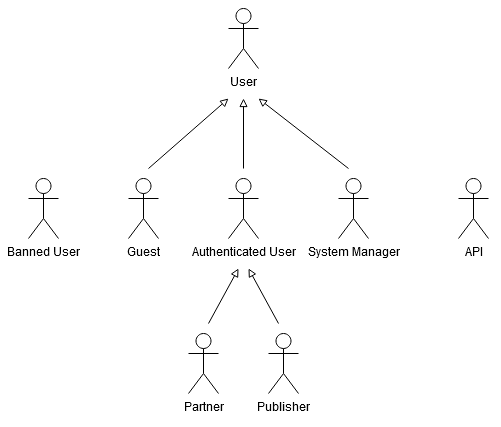
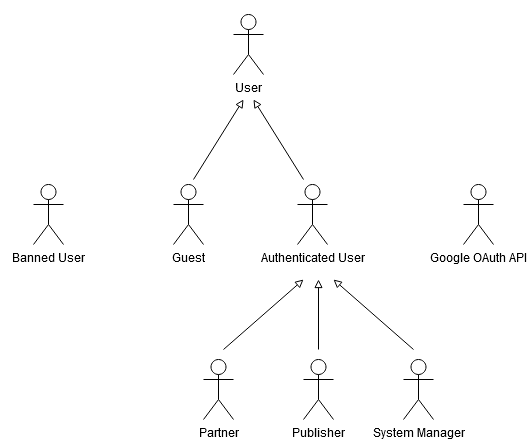
Actores figure updated; User stories orderer by priority; added a few user stories and business rules

diff --git a/docs/A2.md b/docs/A2.md
@@ -17,7 +17,7 @@ Figure 1: Actors
 |Moderator|Authenticated user that is responsible for the management of users and for some specific supervisory and moderation functions, such as remove third-party articles or comments and ban users|n/a
 |Partner|Authenticated User with higher reputation|
 |Banned User|User that is no longer a generic user (can no longer authenticate with his email)|n/a
-|OAuth API|External OAuth API that can be used to register or authenticate into the system|Google
+|Google OAuth API|External OAuth API that can be used to register or authenticate into the system|Google
 
 Table 1: Actor's Description
 
@@ -32,9 +32,10 @@ For the Collaborative News system, consider the user stories that are presented 
 |US02| Search | High | As an *User*, I want to consult all public information, so that I can select the topic of the news I read
 |US03| Sign-out | High | As an *User*, I want to sign-out from my account, so that I no longer have user privilegies
 |US04| Search | High | As an *User*, I want to search for public News, so that I can stay informed
-|US05| Consult FAQ | Low | As an *USer*, I want to see some FAQ, so that I can get fast answers to my questions
-|US06| Consult Contact | Low | As an *User*, I want to consult contacts, so that I can see a contact I might need
-|US07| See About | Low | As an *User*, I want to access the about page, so that I can see the website's description
+|US05| Create Report | Medium | As an *User*, I want to report a(n) user/news/comment, so that the moderators can manage users/news/comments that go against the community guidelines
+|US06| Consult FAQ | Low | As an *USer*, I want to see some FAQ, so that I can get fast answers to my questions
+|US07| Consult Contact | Low | As an *User*, I want to consult contacts, so that I can see a contact I might need
+|US08| See About | Low | As an *User*, I want to access the about page, so that I can see the website's description
 
 Table 2: User's User Stories
  
@@ -43,8 +44,8 @@ Table 2: User's User Stories
 |-------|------|------|------|
 |US11|Sign-in | High | As a *Guest*, I want to authenticate into the system, so that I can access privileged information|
 |US12|Register | High | As a *Guest*, I want to register into the system, so that I can authenticate myself into the system|
-|US13|Sign-in using external API | Low | As a *Guest*, I want to sign-in through my Google account, so that I can authenticate myself into the system|
-|US14|Register using external API | Low | As a *Guest*, I want to register a new account linked to my Google account, so that I can access privileged information|
+|US13|Sign-in using Google OAuth API | Low | As a *Guest*, I want to sign-in through my Google account, so that I can authenticate myself into the system|
+|US14|Register using Google OAuth API | Low | As a *Guest*, I want to register a new account linked to my Google account, so that I can access privileged information|
 
 Table 3: Guest's User Stories
 
@@ -65,8 +66,8 @@ Table 4: Authenticated User's User Stories
 |-------|------|------|------|
 |US31|Edit post|High| As a *Publisher*, I want to edit a post I previously posted, so that I can keep the information updated|
 |US32|Remove post|High| As a *Publisher*, I want to remove a post I previously posted, so that it is no longer publicly available|
-|US33|Edit comment|Medium| As a *Publisher*, I want to edit a comment I previously posted, so that I can keep the comment updated|
-|US34|Remove comment|High| As a *Publisher*, I want to remove a comment I previously posted, so that it is no longer publicly available|
+|US33|Remove comment|High| As a *Publisher*, I want to remove a comment I previously posted, so that it is no longer publicly available|
+|US34|Edit comment|Medium| As a *Publisher*, I want to edit a comment I previously posted, so that I can keep the comment updated|
 
 Table 5: Owner's User Stories
 
@@ -74,11 +75,12 @@ Table 5: Owner's User Stories
 |Identifier|Name|Priority|Description|
 |-------|------|------|------|
 |US41|Remove Post from other User|High|As a *Moderator*, I want to remove a post from another user, so that I can improve the reliability of the news published in the website
-|US42|Ban User|Medium|As a *Moderator*, I want to be able to ban a user from the website, so the user won't be able to post again
-|US43|Verify Partner|Medium|As a *Moderator*, I want to be able to verify a user, so that the user reaches a bigger audience by becoming a Partner
-|US43|Remove Partner|Low|As a *Moderator*, I want to be able to remove a partner, so that the partner no longer reaches a bigger audience with his posts
-|US44|Remove Comment from another User|High|As a *Moderator*, I want to remove a comment from another user, so that I can improve the reliability of the news published in the website
-|US45|Add FAQ| Low | 
+|US42|Remove Comment from another User|High|As a *Moderator*, I want to remove a comment from another user, so that I can improve the reliability of the news published in the website
+|US43|Ban User|Medium|As a *Moderator*, I want to be able to ban a user from the website, so the user won't be able to post again
+|US44|Verify Partner|Medium|As a *Moderator*, I want to be able to verify a user, so that the user reaches a bigger audience by becoming a Partner
+|US45|Manage Reports|Medium|As a *Moderator*, I want to be able so see all reports made by other users, so that I can ban users or delete articles or comments
+|US46|Remove Partner|Low|As a *Moderator*, I want to be able to remove a partner, so that the partner no longer reaches a bigger audience with his posts
+|US47|Add FAQ| Low |As a *Moderator*, I want to be able to add a new Question and the respective Answer to the FAQ, so thet other Users can see it in the FAQ
 
 
 Table 6: Moderator's User Stories
@@ -103,7 +105,15 @@ Table 8: Banned User's User Stories
 This annex contains business rules, technical requirements and other non-functional requirements on the project.
 
 #### 2.3.1 Business Rules
+Identifier|Name|Description
+|-------|------|------|
 BR01 | Reputation | Every User has a reputation based on the upvotes or downvotes they got
+BR02 | Guest User's Reputation | Every Guest user has a reputation equal to 0 
+BR03 | Partner | A User is only able to request the label of Partner when it reaches a reputation of 1000
+
+Table 9: Business Rules
+
+
 #### 2.3.2 Technical Requirements
 
 Identifier|Name|Description
@@ -120,8 +130,12 @@ TR09|Robustness|The system must be prepared to handle and continue operating whe
 TR10|Scalability|The system must be prepared to deal with the growth in the number of users and their actions
 TR11|Ethics|The system must respect the ethical principles in software development (for example, the password must be stored encrypted to ensure that only the owner knows it)
 
+Table 10: Technical Requirements
 
-#### 2.3.3 Rectrictions
+
+#### 2.3.3 Restrictions
 Identifier|Name|Description
 |-------|------|------|
 C01|Deadline|Fim do Semestre
+
+Table 11: Restrictions
